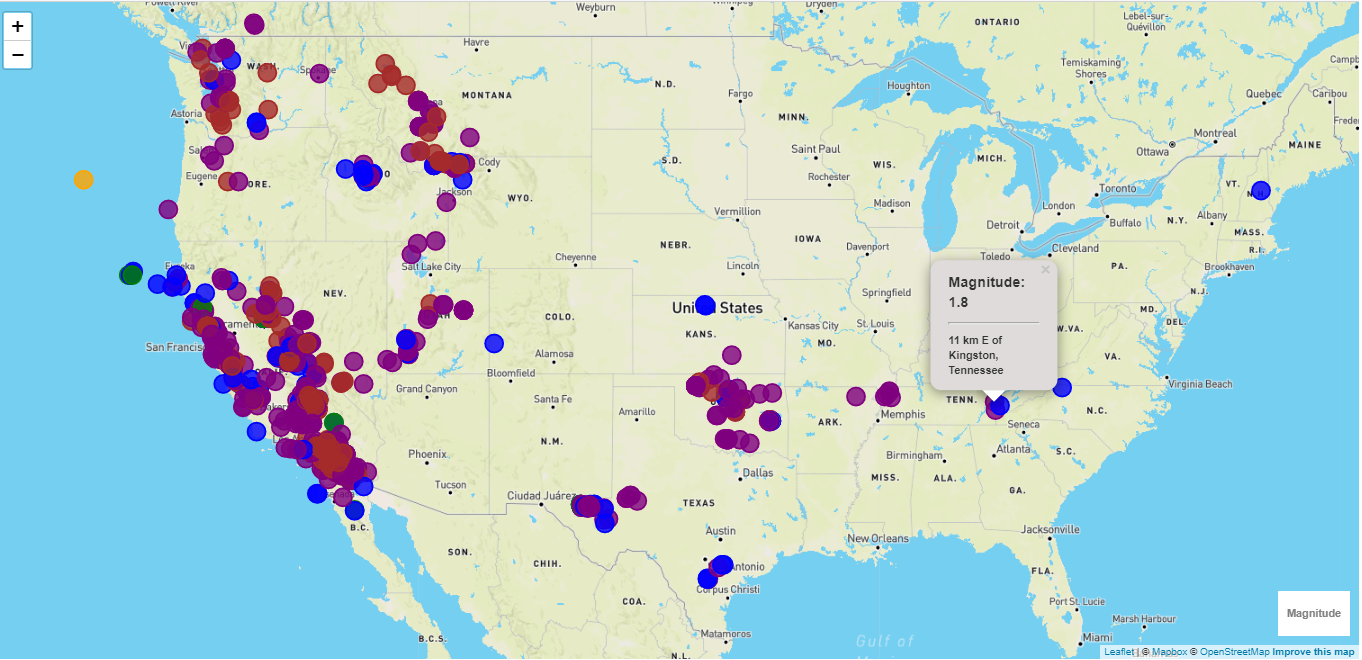
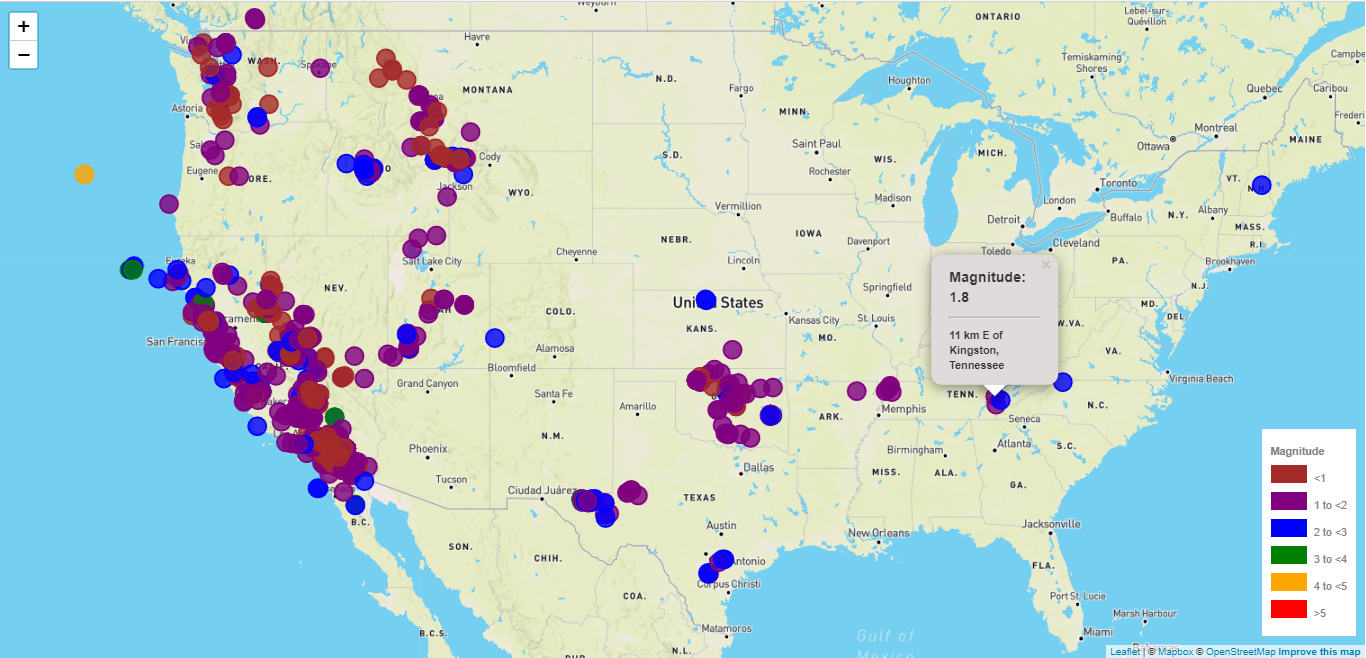
updates

diff --git a/static/js/logic.js b/static/js/logic.js
@@ -42,7 +42,7 @@ function earthQuakeMap() {
     
 };
 
-// Function for creating legend
+// Create function for legend to display information about our map
 function mapLegend(map) {
 
     colors = ["brown", "purple", "blue", "green", "orange", "red"];
@@ -59,7 +59,7 @@ function mapLegend(map) {
         // Loop through intensity to generate label 
         for (var i = 0; i < categories.length; i++) {
             div.innerHTML +=
-               '<i style="background:' + colors[i] + '></i>' +
+               '<i style="background:' + colors[i] + '"></i>' +
                categories[i] + '<br>';
         };
         return div;

diff --git a/static/js/logic-2.js b/static/js/logic-2.js
@@ -105,7 +105,7 @@ function mapLegend (map) {
         // Loop through intensity to generate label 
         for (var i = 0; i < categories.length; i++) {
             div.innerHTML +=
-               '<i style="background:' + colors[i] + '></i>' +
+               '<i style="background:' + colors[i] + '"></i>' +
                categories[i] + '<br>';
         };
         return div;
